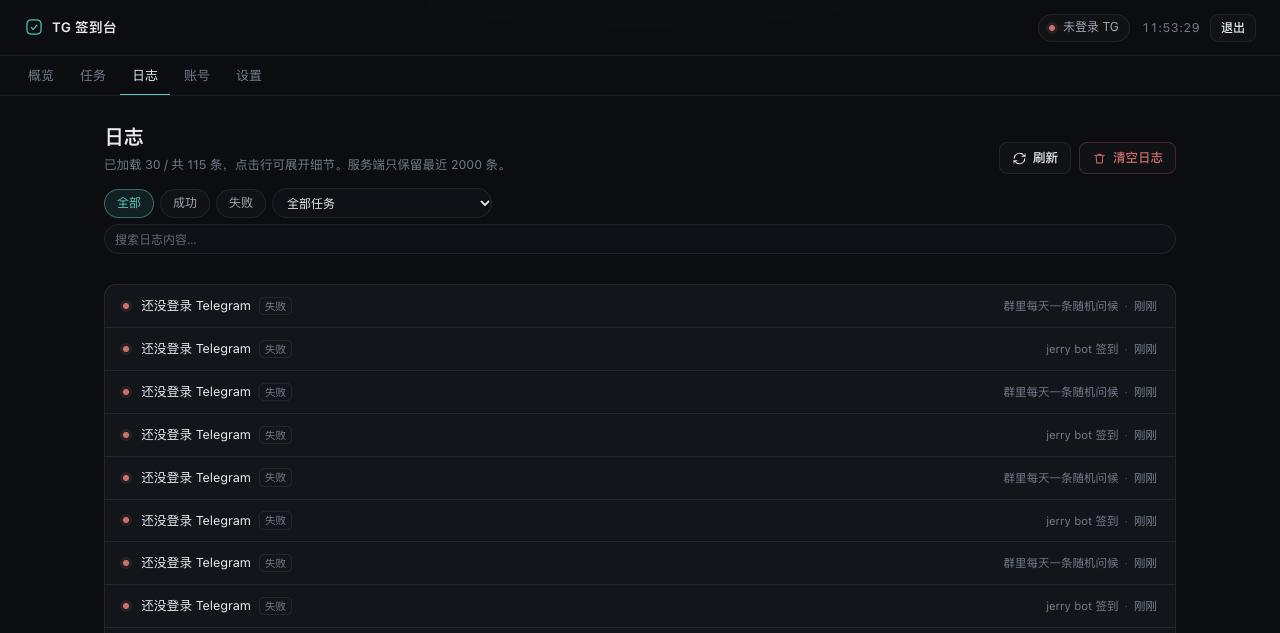
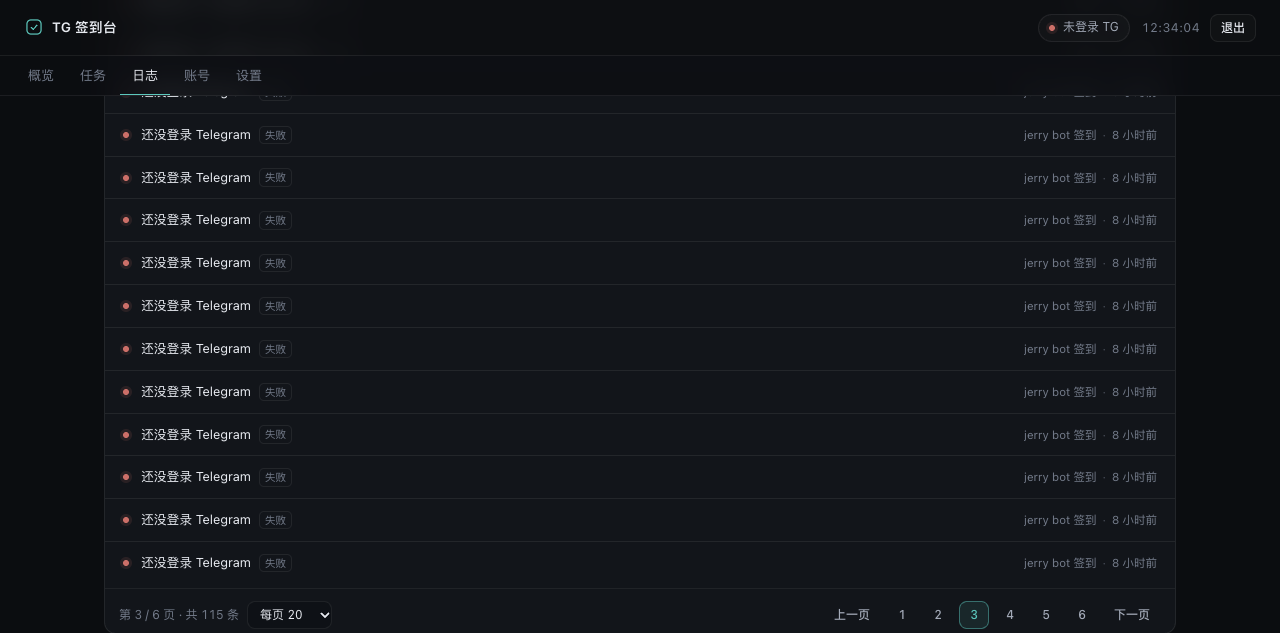
feat(logs): 页码分页组件，替换"加载更多"（0.4.5）
- 日志列表底部固定翻页条：第 3 / 6 页 · 共 115 条 + 每页条数（10/20/50/100）
  + 上一页 / 页码（>7 页时带省略号）/ 下一页，当前页高亮，首末页禁用对应按钮
- /api/logs 改为 page / pageSize（1–100，默认 20），返回 total / pages；
  越界页自动收敛到最后一页；仍兼容旧的 before 游标参数
- 切换 级别/任务/搜索词/每页条数 都会回到第 1 页
- 单页时只显示"共 N 条"，不出现多余的翻页控件
- 文档与截图更新（docs/API.md、README、docs/images/logs.png）

diff --git a/public/app.js b/public/app.js
@@ -40,8 +40,10 @@ const state = {
   data: null,
   view: "overview",
   logs: null, // 日志 tab 拉取的列表；概览用 state.data.logs（最新 50）
-  logsNextBefore: null, // 「加载更多」游标（比页码稳：新日志插入不会跳行）
   logsTotal: null, // 当前筛选条件下的总条数
+  logPage: 1,
+  logPageSize: 20,
+  logPages: 1,
   turnstileToken: "", // Turnstile 通过后拿到的 token（登录时提交）
   turnstileWidget: null, // widget id，用于 reset
   turnstileSiteKey: null,
@@ -981,22 +983,28 @@ async function runTick(button) {
 
 /* --------------------------------------------------------------- 日志 */
 
-async function loadLogs({ silent = false, append = false } = {}) {
+async function loadLogs({ silent = false } = {}) {
   try {
-    const params = new URLSearchParams({ limit: "30" });
+    const params = new URLSearchParams({ pageSize: String(state.logPageSize), page: String(state.logPage) });
     if (state.logLevel) params.set("level", state.logLevel);
     if (state.logTaskId) params.set("taskId", String(state.logTaskId));
     if (state.logQuery) params.set("q", state.logQuery);
-    if (append && state.logsNextBefore) params.set("before", String(state.logsNextBefore));
     const res = await api(`/api/logs?${params.toString()}`);
-    const logs = Array.isArray(res && res.logs) ? res.logs : [];
-    state.logs = append && Array.isArray(state.logs) ? [...state.logs, ...logs] : logs;
-    state.logsNextBefore = res && res.nextBefore ? res.nextBefore : null;
+    state.logs = Array.isArray(res && res.logs) ? res.logs : [];
     state.logsTotal = res && typeof res.total === "number" ? res.total : null;
+    state.logPages = res && typeof res.pages === "number" ? res.pages : 1;
+    state.logPage = res && typeof res.page === "number" ? res.page : 1;
   } catch (error) {
     if (!silent) toast(error.message || "读取日志失败", { kind: "error" });
   }
   if (state.view === "logs") paint({ force: true });
+}
+
+/** 换筛选条件时回到第 1 页 */
+async function reloadLogsFromFirstPage() {
+  state.logPage = 1;
+  state.logs = null;
+  await loadLogs({ silent: true });
 }
 
 function renderLogs() {
@@ -1008,10 +1016,9 @@ function renderLogs() {
 
   const header = pageHead({
     title: "日志",
-    description: state.logsTotal !== undefined && state.logsTotal !== null
-      ? `已加载 ${logs.length} / 共 ${state.logsTotal} 条${filterSummary()}，点击行可展开细节。服务端只保留最近 2000 条。`
-      : logs.length
-        ? `已加载 ${logs.length} 条${filterSummary()}`
+    description:
+      state.logsTotal !== undefined && state.logsTotal !== null && state.logsTotal > 0
+        ? `共 ${state.logsTotal} 条${filterSummary()}，点击行可展开细节。服务端只保留最近 2000 条。`
         : "执行记录与错误细节。",
     actions: [
       btn("刷新", {
@@ -1038,9 +1045,7 @@ function renderLogs() {
           type: "button",
           onclick: async (event) => {
             state.logLevel = value;
-            state.logs = null;
-            state.logsNextBefore = null;
-            await withLoading(event.currentTarget, () => loadLogs(), { silent: true });
+            await withLoading(event.currentTarget, () => reloadLogsFromFirstPage());
           },
         },
         label,
@@ -1053,9 +1058,7 @@ function renderLogs() {
         "aria-label": "按任务筛选",
         onchange: async (event) => {
           state.logTaskId = event.currentTarget.value;
-          state.logs = null;
-          state.logsNextBefore = null;
-          await loadLogs({ silent: true });
+          await reloadLogsFromFirstPage();
         },
       },
       el("option", { value: "" }, "全部任务"),
@@ -1075,9 +1078,7 @@ function renderLogs() {
         state.logQuery = value;
         clearTimeout(renderLogs._searchTimer);
         renderLogs._searchTimer = setTimeout(async () => {
-          state.logs = null;
-          state.logsNextBefore = null;
-          await loadLogs({ silent: true });
+          await reloadLogsFromFirstPage();
         }, 350);
       },
     }),
@@ -1099,26 +1100,101 @@ function renderLogs() {
     );
   }
 
+  const goPage = (page) => {
+    if (page === state.logPage) return;
+    state.logPage = page;
+    void loadLogs();
+  };
+
   return frag(
     header,
     filters,
-    el("div", { class: "card log-card" }, el("ul", { class: "log-list" }, logs.map(logItem))),
-    state.logsNextBefore
-      ? el(
-          "div",
-          { class: "log-more" },
-          el(
-            "button",
-            {
-              class: "btn",
-              type: "button",
-              onclick: (event) => withLoading(event.currentTarget, () => loadLogs({ append: true })),
-            },
-            "加载更早的日志",
-          ),
-        )
-      : null,
+    el(
+      "div",
+      { class: "card log-card" },
+      el("ul", { class: "log-list" }, logs.map(logItem)),
+      state.logPages > 1
+        ? el(
+            "div",
+            { class: "pager" },
+            el(
+              "div",
+              { class: "pager-info" },
+              el("span", {}, `第 ${state.logPage} / ${state.logPages} 页 · 共 ${state.logsTotal ?? logs.length} 条`),
+              el(
+                "select",
+                {
+                  class: "input pager-size",
+                  "aria-label": "每页条数",
+                  onchange: async (event) => {
+                    state.logPageSize = Number(event.currentTarget.value) || 20;
+                    await reloadLogsFromFirstPage();
+                  },
+                },
+                ...[10, 20, 50, 100].map((size) =>
+                  el("option", { value: String(size), selected: size === state.logPageSize }, `每页 ${size}`),
+                ),
+              ),
+            ),
+            el(
+              "div",
+              { class: "pager-actions" },
+              el(
+                "button",
+                {
+                  class: "btn btn-sm",
+                  type: "button",
+                  disabled: state.logPage <= 1,
+                  onclick: () => goPage(state.logPage - 1),
+                },
+                "上一页",
+              ),
+              ...pageNumbers(state.logPage, state.logPages).map((item) =>
+                item === "…"
+                  ? el("span", { class: "pager-gap" }, "…")
+                  : el(
+                      "button",
+                      {
+                        class: `btn btn-sm pager-num${item === state.logPage ? " is-current" : ""}`,
+                        type: "button",
+                        "aria-current": item === state.logPage ? "page" : undefined,
+                        onclick: () => goPage(item),
+                      },
+                      String(item),
+                    ),
+              ),
+              el(
+                "button",
+                {
+                  class: "btn btn-sm",
+                  type: "button",
+                  disabled: state.logPage >= state.logPages,
+                  onclick: () => goPage(state.logPage + 1),
+                },
+                "下一页",
+              ),
+            ),
+          )
+        : state.logsTotal && state.logsTotal > 0
+          ? el("div", { class: "pager pager-single" }, el("div", { class: "pager-info" }, `共 ${state.logsTotal} 条`))
+          : null,
+    ),
   );
+}
+
+/** 生成页码序列：1 … 4 5 [6] 7 8 … 20 */
+function pageNumbers(current, total) {
+  if (total <= 7) return Array.from({ length: total }, (_, i) => i + 1);
+  const pages = new Set([1, total, current, current - 1, current + 1, current - 2, current + 2]);
+  const sorted = [...pages].filter((page) => page >= 1 && page <= total).sort((a, b) => a - b);
+  const result = [];
+  let previous = 0;
+  for (const page of sorted) {
+    if (previous && page - previous > 1) result.push("…");
+    result.push(page);
+    previous = page;
+  }
+  return result;
 }
 
 /** 当前筛选条件的一句话描述 */

diff --git a/src/agent.ts b/src/agent.ts
@@ -205,18 +205,26 @@ export class TgAgent implements DurableObject {
       }
 
       if (path === "/logs" && method === "GET") {
-        const limit = intParam(url.searchParams.get("limit"), 30, 1, 200);
-        const beforeId = intParam(url.searchParams.get("before"), 0, 0, Number.MAX_SAFE_INTEGER) || null;
+        const pageSize = intParam(url.searchParams.get("pageSize") ?? url.searchParams.get("limit"), 20, 1, 100);
         const level = url.searchParams.get("level");
         const taskIdParam = intParam(url.searchParams.get("taskId"), 0, 0, Number.MAX_SAFE_INTEGER) || null;
         const query = url.searchParams.get("q");
-        const filter = { limit, beforeId, level, taskId: taskIdParam, query };
-        const logs = this.store.listLogs(filter);
-        // 只有"这一页满了"才可能有更早的；否则前端会一直显示「加载更多」
+        const beforeId = intParam(url.searchParams.get("before"), 0, 0, Number.MAX_SAFE_INTEGER) || null;
+
+        const filter = { limit: pageSize, beforeId, level, taskId: taskIdParam, query };
+        const total = this.store.countLogs(filter);
+        const pages = Math.max(1, Math.ceil(total / pageSize));
+        const page = Math.min(pages, intParam(url.searchParams.get("page"), 1, 1, 100_000));
+
+        const logs = this.store.listLogs({ ...filter, offset: (page - 1) * pageSize });
         return json({
           logs,
-          nextBefore: logs.length === limit ? logs[logs.length - 1].id : null,
-          total: this.store.countLogs(filter),
+          total,
+          page,
+          pageSize,
+          pages,
+          // 游标模式下仍然返回（兼容旧调用）
+          nextBefore: beforeId && logs.length === pageSize ? logs[logs.length - 1].id : null,
         });
       }
       if (path === "/logs/clear" && method === "POST") {

diff --git a/public/styles.css b/public/styles.css
@@ -2529,10 +2529,65 @@ input[type="radio"] {
   background: rgba(92, 200, 189, 0.1);
 }
 
-.log-more {
+/* 日志分页条 */
+.pager {
   display: flex;
+  align-items: center;
+  justify-content: space-between;
+  gap: 12px;
+  flex-wrap: wrap;
+  padding: 12px 14px 4px;
+  border-top: 1px solid rgba(255, 255, 255, 0.06);
+  margin-top: 4px;
+}
+
+.pager-single {
+  border-top: 0;
   justify-content: center;
-  margin: 14px 0 4px;
+  padding-top: 10px;
+}
+
+.pager-info {
+  display: flex;
+  align-items: center;
+  gap: 8px;
+  flex-wrap: wrap;
+  font-size: 12px;
+  color: var(--text-3, rgba(255, 255, 255, 0.45));
+  font-variant-numeric: tabular-nums;
+}
+
+.pager-actions {
+  display: flex;
+  align-items: center;
+  gap: 6px;
+  flex-wrap: wrap;
+}
+
+.pager-size {
+  width: auto;
+  height: 28px;
+  padding: 0 8px;
+  font-size: 12px;
+  border-radius: 8px;
+}
+
+.pager-num {
+  min-width: 30px;
+  justify-content: center;
+  font-variant-numeric: tabular-nums;
+}
+
+.pager-num.is-current {
+  color: var(--accent, #5cc8bd);
+  border-color: rgba(92, 200, 189, 0.45);
+  background: rgba(92, 200, 189, 0.1);
+}
+
+.pager-gap {
+  color: var(--text-3, rgba(255, 255, 255, 0.35));
+  padding: 0 2px;
+  font-size: 12px;
 }
 
 /* 最近结果单元格里的「步骤日志」入口 */

diff --git a/src/db.ts b/src/db.ts
@@ -84,6 +84,7 @@ interface TaskRow extends Row {
 
 export interface LogFilter {
   limit?: number;
+  offset?: number;
   beforeId?: number | null;
   taskId?: number | null;
   level?: string | null;
@@ -421,9 +422,10 @@ export class Store {
 
   listLogs(options: LogFilter = {}): LogEntry[] {
     const limit = Math.max(1, Math.min(200, options.limit ?? 100));
+    const offset = Math.max(0, Math.min(1_000_000, options.offset ?? 0));
     const { where, bindings } = this.logFilter(options);
-    const sql = `SELECT * FROM logs ${where} ORDER BY id DESC LIMIT ?`;
-    return this.rows<LogRow>(sql, ...bindings, limit).map(rowToLog);
+    const sql = `SELECT * FROM logs ${where} ORDER BY id DESC LIMIT ? OFFSET ?`;
+    return this.rows<LogRow>(sql, ...bindings, limit, offset).map(rowToLog);
   }
 
   /** 当前筛选条件下的总条数（前端显示"已加载 x / 共 y"） */

diff --git a/docs/API.md b/docs/API.md
@@ -132,12 +132,14 @@
 
 | 方法 | 路径 | 响应 |
 | --- | --- | --- |
-| GET | `/api/logs?limit=30&before=<id>&level=ok\|fail&taskId=<id>&q=<关键字>` | `{ logs: [LogEntry], nextBefore: number \| null, total: number }` |
+| GET | `/api/logs?page=1&pageSize=20&level=ok\|fail&taskId=<id>&q=<关键字>` | `{ logs: [LogEntry], total, page, pageSize, pages }` |
 | POST | `/api/logs/clear` | `{ ok: true }` |
 
-日志用**游标分页**（`before` = 上一页最后一条的 id，不是页码）：
-新日志插入不会导致翻页跳行；`nextBefore` 为 `null` 表示没有更早的了。
-`total` 是**当前筛选条件下**的总条数（前端显示「已加载 x / 共 y」）。
+日志用**页码分页**：`page`（从 1 开始，越界会自动收敛到最后一页）+ `pageSize`（1–100，默认 20），
+响应带 `total` / `pages` 供前端渲染翻页条（`第 3 / 6 页 · 共 115 条`）。
+也仍支持旧的游标参数 `before`（配合 `pageSize` 取更早的一页），返回 `nextBefore`。
+
+`total` 是**当前筛选条件下**的总条数。
 
 筛选参数：`level`（ok / fail / info…）、`taskId`（某个任务）、`q`（在 message / task_name 里模糊搜索，
 LIKE 通配符已转义）。服务端只保留最近 2000 条。

diff --git a/CHANGELOG.md b/CHANGELOG.md
@@ -11,6 +11,13 @@ git push --follow-tags # 触发部署（Workers Builds / GitHub Actions）
 
 ## [Unreleased]
 
+## [0.4.5] - 2026-10-24
+
+- 日志分页从「向下滚动加载更多」改成**页码组件**：`第 3 / 6 页 · 共 115 条` + 每页条数
+  （10/20/50/100）+ 上一页 / 页码（带省略号）/ 下一页，固定在列表底部
+- `/api/logs` 改为 `page` / `pageSize` 分页，返回 `total` / `pages`；越界页自动收敛到最后一页
+- 切筛选条件（级别 / 任务 / 搜索词 / 每页条数）都会回到第 1 页
+
 ## [0.4.4] - 2026-10-24
 
 - **管理员 ID 默认取当前登录账号**：登录 Telegram 成功后自动填入该账号的 ID（并在设置页提示里显示），
